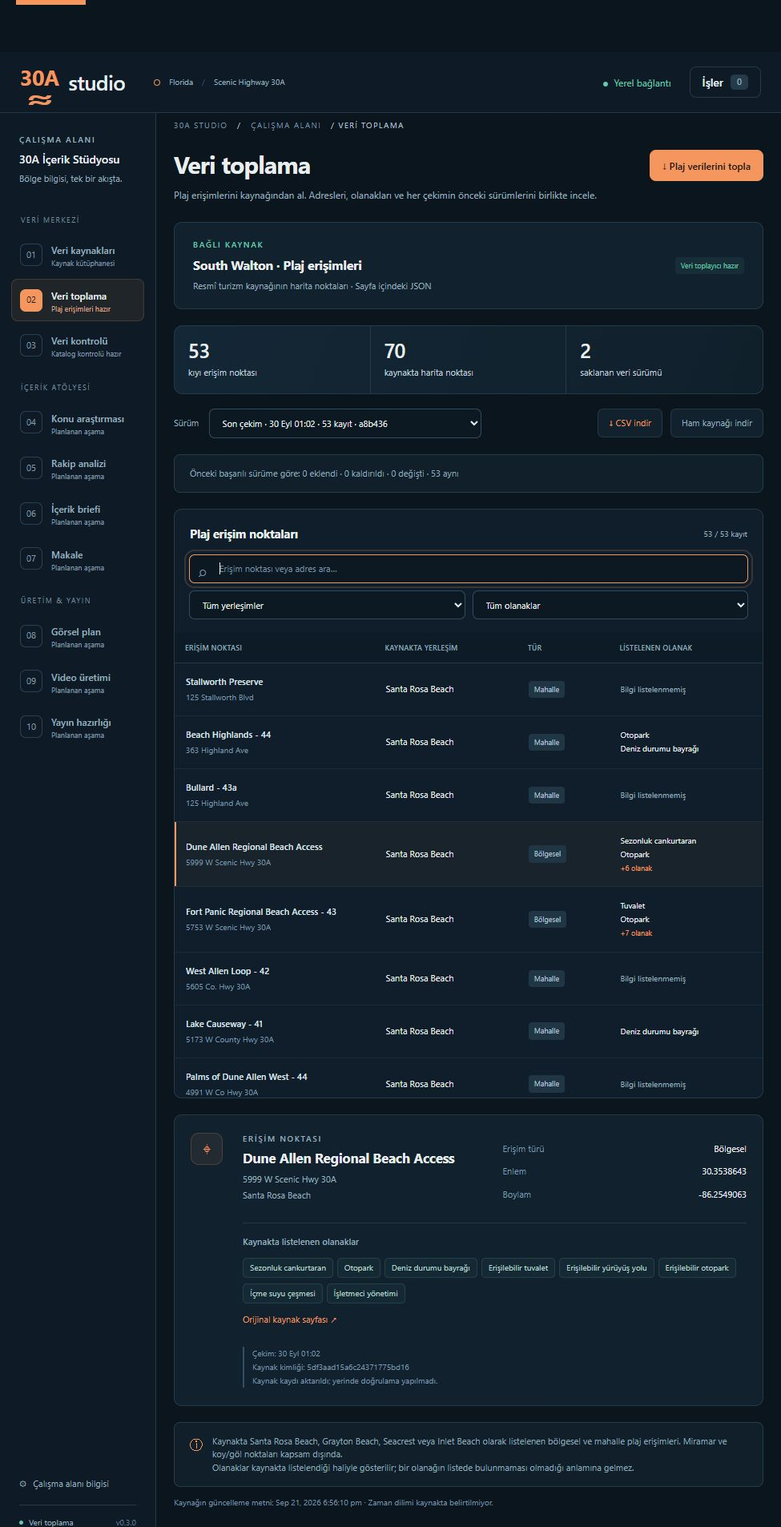
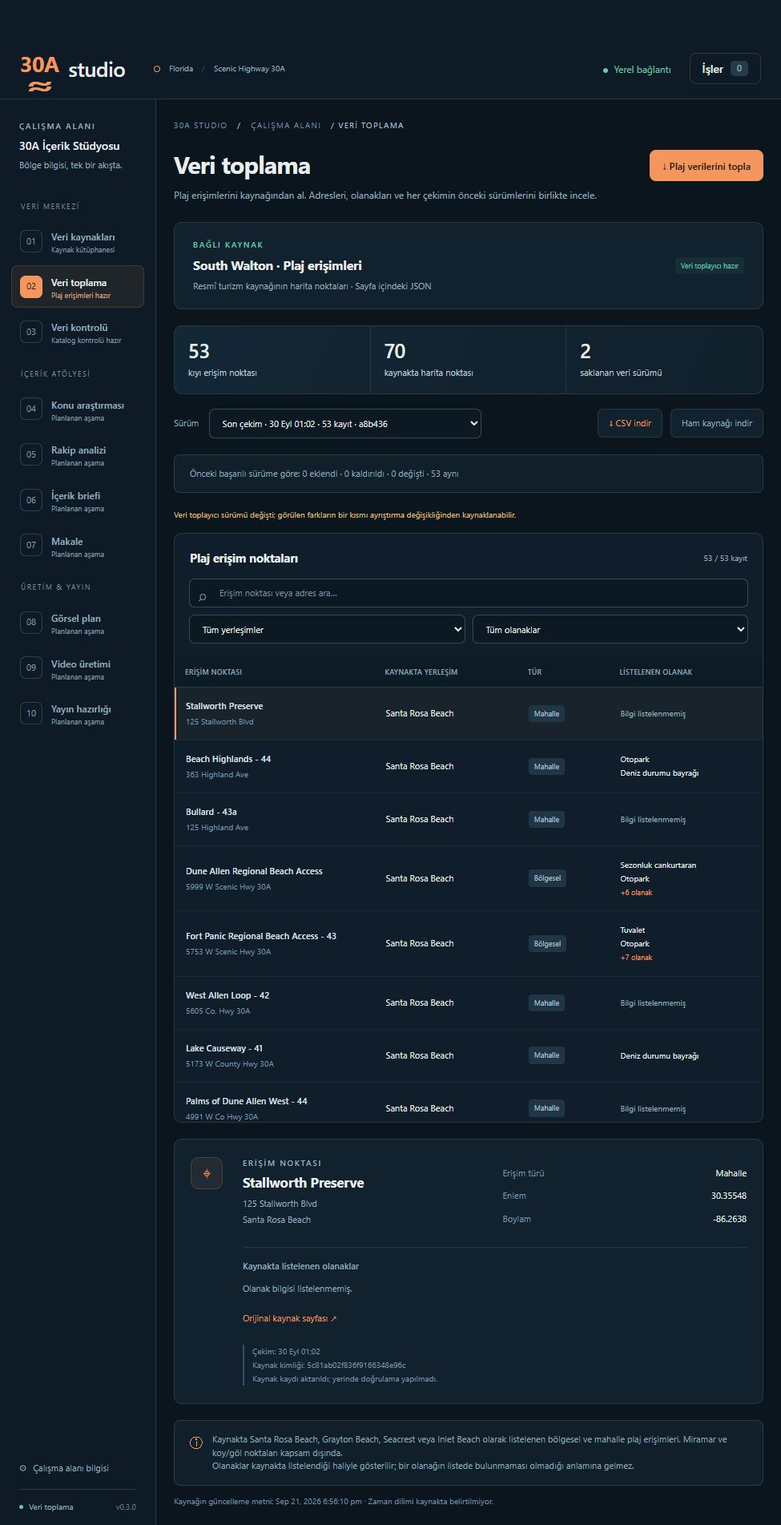
Fix generic connector UI, version diffs and safe collection diagnostics

diff --git a/studio/web/app.js b/studio/web/app.js
@@ -1,5 +1,6 @@
 import {api, esc, host, date} from "./api.js";
 import {roadmap} from "./roadmap.js";
+import {connectorState, jobResultTarget} from "./connectors.js";
 import {BeachScreen} from "./collection.js";
 
 const $ = selector => document.querySelector(selector);
@@ -85,13 +86,13 @@ function renderRows() {
   if (!sources.some(source=>source.id===state.selected)) state.selected=sources[0]?.id || null;
   $("#filter-count").textContent = `${sources.length} kaynak`;
   $("#source-rows").innerHTML = sources.length ? sources.map(source=>
-    `<tr class="${source.id===state.selected?"selected":""}"><td><button class="source-name" data-action="select" data-id="${source.id}" aria-pressed="${source.id===state.selected}">${esc(source.name)}</button><div class="source-host">${esc(host(source.url))}</div></td><td><span class="tag">${esc(source.category)}</span></td><td class="method">${source.connector?.name===state.data.beach_connector.name?"JSON · bağlı":esc(source.method)}</td><td class="method">${esc(source.cadence)}</td><td><span class="tag ${source.connector?.name===state.data.beach_connector.name && source.enabled?"green":"warm"}">${!source.enabled?"Arşivde":source.connector?.name===state.data.beach_connector.name?"Toplayıcı hazır":"Bağlantı bekliyor"}</span></td></tr>`).join("") :
+    `<tr class="${source.id===state.selected?"selected":""}"><td><button class="source-name" data-action="select" data-id="${source.id}" aria-pressed="${source.id===state.selected}">${esc(source.name)}</button><div class="source-host">${esc(host(source.url))}</div></td><td><span class="tag">${esc(source.category)}</span></td><td class="method">${esc(connectorState(source).method)}</td><td class="method">${esc(source.cadence)}</td><td><span class="tag ${source.connector != null && source.enabled?"green":"warm"}">${connectorState(source).label}</span></td></tr>`).join("") :
     `<tr class="empty-row"><td colspan="5">${state.archived?"Bu filtrelerde arşivlenmiş kaynak yok.":"Bu filtrelerde kaynak bulunamadı."}<br><button data-action="clear" class="quiet" style="margin-top:15px;font-size:11px">Filtreleri temizle</button></td></tr>`;
   const source = sources.find(source=>source.id===state.selected);
   $("#source-detail").innerHTML = source ? `<div class="detail-icon" aria-hidden="true">↗</div><span class="eyebrow">KAYNAK AYRINTISI</span><h2>${esc(source.name)}</h2><p>${esc(source.notes || "Bu kaynak için henüz açıklama eklenmedi.")}</p>
-    <dl><div><dt>Kategori</dt><dd>${esc(source.category)}</dd></div><div><dt>Bölge</dt><dd>${esc(source.region)}</dd></div><div><dt>Yöntem</dt><dd>${source.connector?.name===state.data.beach_connector.name?"JSON · bağlı":esc(source.method)}</dd></div><div><dt>Planlanan sıklık</dt><dd>${esc(source.cadence)}</dd></div><div><dt>Son düzenleme</dt><dd>${esc(date(source.updated_at))}</dd></div></dl>
+    <dl><div><dt>Kategori</dt><dd>${esc(source.category)}</dd></div><div><dt>Bölge</dt><dd>${esc(source.region)}</dd></div><div><dt>Yöntem</dt><dd>${esc(connectorState(source).method)}</dd></div>${source.connector?`<div><dt>Toplayıcı</dt><dd>${esc(source.connector.name)}</dd></div><div><dt>Toplayıcı sürümü</dt><dd>${esc(source.connector.version || "Belirtilmemiş")}</dd></div>`:""}<div><dt>Planlanan sıklık</dt><dd>${esc(source.cadence)}</dd></div><div><dt>Son düzenleme</dt><dd>${esc(date(source.updated_at))}</dd></div></dl>
     <a class="source-link" href="${esc(source.url)}" target="_blank" rel="noopener noreferrer">Kaynağın sitesini aç ↗</a>
-    <div class="detail-actions"><button data-action="edit" data-id="${source.id}">Düzenle</button><button class="quiet" data-action="archive" data-id="${source.id}">${source.enabled?"Arşivle":"Geri al"}</button></div><div class="detail-foot">${source.connector?.name===state.data.beach_connector.name?'<a href="#collect">Plaj veri toplayıcısını aç →</a><br>Bağlı yöntem: sayfa içindeki JSON.':'Bu kaynak için veri toplayıcısı henüz bağlı değil.'}</div>` :
+    <div class="detail-actions"><button data-action="edit" data-id="${source.id}">Düzenle</button><button class="quiet" data-action="archive" data-id="${source.id}">${source.enabled?"Arşivle":"Geri al"}</button></div><div class="detail-foot">${source.connector?.name===state.data.beach_connector.name?'<a href="#collect">Plaj veri toplayıcısını aç →</a>':source.connector?'Toplayıcı hazır.':'Bu kaynak için veri toplayıcısı henüz bağlı değil.'}</div>` :
     `<div class="empty"><span class="empty-icon">▤</span><h3>Kaynak ayrıntıları</h3><p>Listedeki bir kaynağı seçerek açıklamasını ve toplama planını görebilirsin.</p></div>`;
 }
 
@@ -124,10 +125,15 @@ function renderSettings() {
     <section class="info-card"><span class="eyebrow">SÜRÜM ${esc(state.data.version)}</span><h2 style="margin-top:12px">Plaj verisi toplama hazır</h2><p>Kaynak kütüphanesi, gerçek plaj verisi toplama, filtreleme, CSV dışa aktarma, önceki sürümler ve iş geçmişi kullanılabilir.</p><span class="tag warm">Sonraki aşama</span><p style="margin-top:12px">Diğer kaynaklar ve genişletilmiş veri kontrolü. Bölge ve işletme kimliği tabloları hazır; otomatik eşleştirme, mahalle sınırları ve zamanlayıcı henüz yok. İçerik, görsel ve video üretimi aşamalı olarak eklenecek.</p><a href="#collect" class="return-link">Toplanan verileri gör →</a></section></div>`;
 }
 
+function renderJobResultLink(job) {
+  const target=jobResultTarget(job,state.data.beach_connector.name);
+  return target?`<a href="${target.href}" class="return-link" data-view-report>${target.label} →</a>`:"";
+}
+
 function renderJobs() {
   const jobs = state.data.jobs;
   $("#jobs-count").textContent = jobs.filter(active).length;
-  $("#jobs-content").innerHTML = jobs.length ? jobs.map(job=>`<article class="job"><div class="job-meta"><span class="tag ${job.status==="done"?"green":"warm"}">${esc(statusLabels[job.status] || job.status)}</span><time>${esc(date(job.created_at))}</time></div><h3>${esc(job.title)}</h3>${job.source_name?`<p>Kaynak: ${esc(job.source_name)}</p>`:""}<progress max="100" value="${job.progress}" aria-label="İş ilerlemesi"></progress><p>${esc(job.message)}</p>${active(job)?`<button class="quiet" data-cancel-job="${job.id}">İptal et</button>`:""}<details><summary>İş günlüğü (${job.log.length})</summary>${job.log.map(entry=>`<div class="log-line"><time>${esc(date(entry.at))}</time>${esc(entry.text)}</div>`).join("")}</details>${job.result?(job.kind==="source_collection"?'<a href="#collect" class="return-link" data-view-report>Toplanan verileri aç →</a>':'<a href="#quality" class="return-link" data-view-report>Kontrol raporunu aç →</a>'):""}</article>`).join("") :
+  $("#jobs-content").innerHTML = jobs.length ? jobs.map(job=>`<article class="job"><div class="job-meta"><span class="tag ${job.status==="done"?"green":"warm"}">${esc(statusLabels[job.status] || job.status)}</span><time>${esc(date(job.created_at))}</time></div><h3>${esc(job.title)}</h3>${job.source_name?`<p>Kaynak: ${esc(job.source_name)}</p>`:""}<progress max="100" value="${job.progress}" aria-label="İş ilerlemesi"></progress><p>${esc(job.message)}</p>${active(job)?`<button class="quiet" data-cancel-job="${job.id}">İptal et</button>`:""}<details><summary>İş günlüğü (${job.log.length})</summary>${job.log.map(entry=>`<div class="log-line"><time>${esc(date(entry.at))}</time>${esc(entry.text)}</div>`).join("")}</details>${renderJobResultLink(job)}</article>`).join("") :
     '<div class="empty"><div class="empty-icon">⌁</div><h3>Henüz iş yok</h3><p>Kaynak ekranında “Kayıtları kontrol et” düğmesine bastığında işin durumu ve sonucu burada görünür.</p></div>';
   updateAuditButtons();
 }

diff --git a/studio/web/collection.js b/studio/web/collection.js
@@ -20,7 +20,7 @@ export class BeachScreen {
       (!source?'<div class="stage-note"><p>Plaj erişim kaynağı arşivlenmiş veya adresi değişmiş. Kaynak kütüphanesinden doğru adresli kaydı etkinleştir.</p></div>':"") +
       (run ? `<section class="overview collection-overview"><div class="metric"><div><div class="metric-number"><strong>${run.included_count}</strong><span class="metric-label">kıyı erişim noktası</span></div><small>Seçili veri sürümünde</small></div></div><div class="metric"><div><div class="metric-number"><strong>${run.total_count}</strong><span class="metric-label">kaynakta harita noktası</span></div><small>${run.excluded_count} kayıt kapsam dışında</small></div></div><div class="metric"><div><div class="metric-number"><strong>${runs.length}</strong><span class="metric-label">saklanan veri sürümü</span></div><small>Çekim: ${esc(date(run.fetched_at))}</small></div></div></section>
       <div class="collection-version"><label>Sürüm <select id="collection-version" aria-label="Veri sürümü">${runs.map((entry,index)=>`<option value="${entry.id}" ${entry.id===run.id?"selected":""}>${index===0?"Son çekim · ":""}${esc(date(entry.fetched_at))} · ${entry.included_count} kayıt · ${entry.id.slice(0,6)}</option>`).join("")}</select></label><div><a class="download-link" href="/api/collections/${run.id}/export.csv" download>↓ CSV indir</a><a class="download-link muted" href="/api/collections/${run.id}/raw" download>Ham kaynağı indir</a></div></div>
-      <div class="stage-note" id="run-diff" role="status" style="margin:0 0 20px"><p>Sürüm farkı yükleniyor…</p></div><div class="workspace-grid"><section class="library" aria-label="Toplanan plaj verileri"><div class="library-title"><h2>Plaj erişim noktaları</h2><small id="beach-count">Yükleniyor…</small></div>
+      <div class="stage-note" id="run-diff" role="status" style="margin:0 0 20px"><p>Sürüm farkı yükleniyor…</p></div><p id="diff-version-warning" class="source-stamp" style="color:var(--yellow)" hidden></p><div class="workspace-grid"><section class="library" aria-label="Toplanan plaj verileri"><div class="library-title"><h2>Plaj erişim noktaları</h2><small id="beach-count">Yükleniyor…</small></div>
       <div class="toolbar"><div class="search-wrap"><span aria-hidden="true">⌕</span><input type="search" id="beach-search" aria-label="Plaj kaydı ara" placeholder="Erişim noktası veya adres ara…" value="${esc(this.search)}"></div><select id="beach-city" aria-label="Kaynak yerleşimi filtresi"><option value="">Tüm yerleşimler</option></select><select id="beach-feature" aria-label="Olanak filtresi"><option value="">Tüm olanaklar</option></select></div>
       <div class="table-scroll"><table class="beach-table"><thead><tr><th>ERİŞİM NOKTASI</th><th>KAYNAKTA YERLEŞİM</th><th>TÜR</th><th>LİSTELENEN OLANAK</th></tr></thead><tbody id="beach-rows"><tr><td colspan="4">Kayıtlar yükleniyor…</td></tr></tbody></table></div></section><section class="detail" id="beach-detail" aria-label="Plaj kaydı ayrıntıları"></section></div>
       <div class="stage-note"><span class="note-mark">ⓘ</span><p>${esc(data.beach_connector.scope)}<br>Olanaklar kaynakta listelendiği haliyle gösterilir; bir olanağın listede bulunmaması olmadığı anlamına gelmez.</p></div><p class="source-stamp">Kaynağın güncelleme metni: ${esc(run.source_updated || "Belirtilmemiş")} · Zaman dilimi kaynakta belirtilmiyor.</p>` :
@@ -34,6 +34,9 @@ export class BeachScreen {
       main.querySelector('#run-diff').textContent=diff?.available
         ? `Önceki başarılı sürüme göre: ${diff.added} eklendi · ${diff.removed} kaldırıldı · ${diff.changed} değişti · ${diff.unchanged} aynı`
         : (diff?.reason || "Önceki başarılı sürüm yok.");
+      const warning=main.querySelector('#diff-version-warning');
+      warning.hidden=!(diff?.available && diff.connector_version_changed);
+      warning.textContent=warning.hidden?"":"Veri toplayıcı sürümü değişti; görülen farkların bir kısmı ayrıştırma değişikliğinden kaynaklanabilir.";
       const cities=[...new Set(snapshot.records.map(record=>record.city))].sort();
       const features=[...new Set(snapshot.records.flatMap(record=>record.features))].sort((a,b)=>this.label(a).localeCompare(this.label(b),'tr'));
       if(!cities.includes(this.city)) this.city="";

diff --git a/studio/web/connectors.js b/studio/web/connectors.js
@@ -1,0 +1,19 @@
+/** Registry metadata controls readiness; domain screens remain explicit. */
+export function connectorState(source) {
+  const ready=source.connector != null;
+  const method=source.method || "Belirlenecek";
+  return {
+    ready,
+    label: !source.enabled?"Arşivde":ready?"Toplayıcı hazır":"Bağlantı bekliyor",
+    method: ready?`${method === "Belirlenecek"?"Toplayıcı":method} · bağlı`:method,
+  };
+}
+
+export function jobResultTarget(job, beachConnectorName) {
+  if(!job.result) return null;
+  if(job.kind === "source_collection") {
+    return job.result.connector_name === beachConnectorName
+      ? {href:"#collect",label:"Toplanan verileri aç"} : null;
+  }
+  return job.kind === "catalog_audit"?{href:"#quality",label:"Kontrol raporunu aç"}:null;
+}

diff --git a/tests/test_corrections.py b/tests/test_corrections.py
@@ -1,0 +1,113 @@
+import hashlib
+import json
+from pathlib import Path
+
+import httpx
+import pytest
+from fastapi.testclient import TestClient
+
+from studio.app import create_app
+from studio.diagnostics import diagnostic
+from studio.sources import beaches
+from studio.sources.base import CollectionResult
+from studio.sources.registry import ConnectorRegistry, DEFAULT_REGISTRY
+from tests.legacy import make_legacy_db
+from tests.test_beaches import HEADERS, page, point, fake_collector
+from tests.test_foundation import TestConnector, collect
+from tests.test_studio import payload
+
+
+def test_generic_metadata_and_disk_hash(tmp_path):
+    with TestClient(create_app(tmp_path, ConnectorRegistry([*DEFAULT_REGISTRY.connectors, TestConnector()])), headers=HEADERS) as client:
+        source = client.post('/api/sources', json=payload()).json()
+        for sources in (client.get('/api/sources').json(), client.get('/api/bootstrap').json()['sources']):
+            connected = next(row for row in sources if row['id'] == source['id'])
+            assert connected['connector'] == {'name': 'test-connector', 'version': '1'}
+            assert any(row['connector'] is None for row in sources)
+        job, run = collect(client, source['id'])
+        assert job['result']['connector_name'] == 'test-connector'
+        raw = (tmp_path / run['raw_path']).read_bytes()
+        assert raw == b'Synthetic test response'
+        assert run['raw_sha256'] == hashlib.sha256(raw).hexdigest()
+        assert 'raw_sha256' not in CollectionResult.__dataclass_fields__
+
+
+def test_migrated_run_compares_across_connector_versions(tmp_path, monkeypatch):
+    make_legacy_db(tmp_path / 'studio.sqlite3')
+    monkeypatch.setattr(beaches, 'collect', fake_collector(page(point())))
+    with TestClient(create_app(tmp_path), headers=HEADERS) as client:
+        db = client.app.state.db
+        source = next(row for row in db.sources() if row['id'] == 'source-a')
+        db.save_source({**source, 'enabled': True}, source['id'], source['version'])
+        job, run = collect(client, source['id'])
+        diff = client.get(f"/api/source-runs/{run['id']}/diff").json()
+        assert diff['available'] and diff['previous_run_id'] == 'old-success'
+        assert diff['previous_connector_version'] == 'south-walton-beaches/1'
+        assert diff['connector_version'] == beaches.PARSER_VERSION
+        assert diff['connector_version_changed'] is True
+        assert client.get(f"/api/collections/{run['id']}").json()['diff'] == diff
+
+
+@pytest.mark.parametrize('origin,destination', [
+    ('www.visitsouthwalton.com', 'visitsouthwalton.com'),
+    ('visitsouthwalton.com', 'www.visitsouthwalton.com'),
+])
+def test_allowlisted_redirect_both_directions(tmp_path, monkeypatch, origin, destination):
+    monkeypatch.setattr(beaches, 'SOURCE_URL', f'https://{origin}/map')
+    seen = []
+    def respond(request):
+        seen.append(str(request.url))
+        if len(seen) == 1:
+            return httpx.Response(301, headers={'location': f'https://{destination}:443/new-map'})
+        return httpx.Response(200, headers={'content-type': 'text/html'}, content=page(point()))
+    with httpx.Client(transport=httpx.MockTransport(respond)) as client:
+        result = beaches.collect(tmp_path / 'raw.html', lambda *args: None, lambda: False, client=client)
+    assert len(result.records) == 1
+    assert seen == [f'https://{origin}/map', f'https://{destination}/new-map']
+
+
+@pytest.mark.parametrize('message,secrets', [
+    ('password=mysecret token=abc123', ['mysecret', 'abc123']),
+    ('Authorization: Bearer bearer-secret api_key=key-secret', ['bearer-secret', 'key-secret']),
+    ('authorization=Bearer bearer-secret', ['bearer-secret']),
+    ('{"password": "space secret", "api_key": "key secret"}', ['space secret', 'key secret']),
+    ("token='quoted secret' API-KEY: key-secret", ['quoted secret', 'key-secret']),
+    ('request https://user:pass123@host.example/path failed', ['user:', 'pass123']),
+    ('keys ghp_test_secret sk-test-secret github_pat_test_secret', ['ghp_test_secret', 'sk-test-secret', 'github_pat_test_secret']),
+    ('x' * 490 + ' token=' + 'a' * 100, ['a' * 3]),
+])
+def test_diagnostic_redacts_before_truncating(message, secrets):
+    info = diagnostic(RuntimeError(message))
+    assert len(info['technical_message']) <= 500
+    for secret in secrets:
+        assert secret not in json.dumps(info)
+    assert '[RE' in info['technical_message']
+
+
+def test_diagnostic_preserves_plain_message_and_only_trace_locations():
+    private_local = 'must-not-leak'
+    try:
+        raise RuntimeError('database is locked')
+    except RuntimeError as exc:
+        info = diagnostic(exc)
+    assert info['technical_message'] == 'database is locked'
+    assert info['exception_type'] == 'RuntimeError'
+    assert info['traceback']
+    assert all(set(frame) == {'file', 'line', 'function'} for frame in info['traceback'])
+    assert all(frame['file'] == Path(frame['file']).name for frame in info['traceback'])
+    assert private_local not in json.dumps(info)
+
+
+def test_safe_diagnostic_is_internal_db_only(tmp_path):
+    class LockedConnector(TestConnector):
+        def store_records(self, con, run_id, records):
+            raise RuntimeError('database is locked')
+    with TestClient(create_app(tmp_path, ConnectorRegistry([LockedConnector()])), headers=HEADERS) as client:
+        source = client.post('/api/sources', json=payload()).json()
+        job, run = collect(client, source['id'])
+        with client.app.state.db.connect() as con:
+            info = json.loads(con.execute('SELECT diagnostic FROM jobs WHERE id=?', (job['id'],)).fetchone()[0])
+        assert info['technical_message'] == 'database is locked'
+        for endpoint in ('/api/jobs', '/api/bootstrap', f"/api/source-runs/{run['id']}"):
+            text = client.get(endpoint).text
+            assert 'database is locked' not in text and 'technical_message' not in text

diff --git a/tests/test_foundation.py b/tests/test_foundation.py
@@ -153,7 +153,9 @@ def test_diff_is_scoped_immutable_and_ignores_feature_order(tmp_path, monkeypatc
         monkeypatch.setattr(beaches, "collect", fake_collector(updated))
         second, _ = collect(client)
         result = client.get(f"/api/source-runs/{second['id']}/diff").json()
-        assert result == {"available": True, "previous_run_id": first["id"], "added": 1, "removed": 1, "changed": 1, "unchanged": 1}
+        assert result == {"available": True, "previous_run_id": first["id"], "added": 1, "removed": 1, "changed": 1, "unchanged": 1,
+                          "previous_connector_version": beaches.PARSER_VERSION,
+                          "connector_version": beaches.PARSER_VERSION, "connector_version_changed": False}
         third, _ = collect(client)
         assert client.get(f"/api/source-runs/{third['id']}/diff").json()["unchanged"] == 3
         assert client.get(f"/api/source-runs/{second['id']}/diff").json() == result
@@ -174,7 +176,7 @@ class TestConnector:
     def collect(self, source, raw_path, progress, canceled):
         raw_path.parent.mkdir(parents=True, exist_ok=True)
         raw_path.write_text("Synthetic test response", encoding="utf-8")
-        return CollectionResult([{"external_id": "test-id", "value": 12}], 1, 0, None, "unused")
+        return CollectionResult([{"external_id": "test-id", "value": 12}], 1, 0, None)
 
     def store_records(self, con, run_id, records):
         con.execute("CREATE TABLE IF NOT EXISTS test_domain(run_id TEXT,external_id TEXT,value INTEGER)")
@@ -256,7 +258,7 @@ def test_redirect_same_host_accepted(tmp_path):
     assert len(result.records) == 1 and seen == [beaches.SOURCE_URL, "https://www.visitsouthwalton.com/new-beach-map/"]
 
 
-@pytest.mark.parametrize("destination", ["https://other.example/map", "https://visitsouthwalton.com/map",
+@pytest.mark.parametrize("destination", ["https://other.example/map", "https://other.visitsouthwalton.com/map",
     "//www.visitsouthwalton.com.evil.example/map", "http://www.visitsouthwalton.com/map",
     "https://user:password@www.visitsouthwalton.com/map", "https://www.visitsouthwalton.com:8443/map"])
 def test_redirect_cross_host_or_unsafe_rejected_without_request(tmp_path, destination):

diff --git a/studio/sources/beaches.py b/studio/sources/beaches.py
@@ -1,5 +1,4 @@
 """Visit South Walton harita noktaları. Sayfanın JavaScript'i çalıştırılmaz."""
-import hashlib
 import json
 import math
 import re
@@ -12,6 +11,7 @@ import httpx
 from .base import CollectionResult, SourceError, CollectionCanceled
 
 SOURCE_URL = "https://www.visitsouthwalton.com/beach-bay-access-locations/"
+ALLOWED_HOSTS = frozenset({"visitsouthwalton.com", "www.visitsouthwalton.com"})
 PARSER_VERSION = "south-walton-beaches/2"
 MAX_BYTES = 5_000_000
 COASTAL_CITIES = frozenset({"Santa Rosa Beach", "Grayton Beach", "Seacrest", "Inlet Beach"})
@@ -94,8 +94,7 @@ def parse_page(content: bytes) -> BeachBatch:
         raise SourceError("Seçilen 30A kıyı kapsamına uyan kayıt bulunamadı. Önceki kayıtlar korundu.")
     updated_match = re.search(r"Latest map update:\s*(?:<[^>]+>\s*)*([^<\r\n]+)", text)
     source_updated = unescape(updated_match.group(1)).strip() if updated_match else None
-    return BeachBatch(records, len(raw_records), len(raw_records)-len(records), source_updated,
-                      hashlib.sha256(content).hexdigest())
+    return BeachBatch(records, len(raw_records), len(raw_records)-len(records), source_updated)
 
 
 def collect(raw_path: Path, progress, canceled, *, client=None) -> BeachBatch:
@@ -122,7 +121,7 @@ def collect(raw_path: Path, progress, canceled, *, client=None) -> BeachBatch:
                                 target_port = parts.port
                             except ValueError as exc:
                                 raise SourceError("Kaynak geçersiz bir yönlendirme adresi döndürdü.") from exc
-                            if (parts.hostname != urlsplit(SOURCE_URL).hostname or parts.scheme != "https"
+                            if (parts.hostname not in ALLOWED_HOSTS or parts.scheme != "https"
                                     or parts.username is not None or parts.password is not None or target_port not in (None, 443)):
                                 raise SourceError("Kaynak başka bir alan adına veya güvenli olmayan adrese yönlendirdi. Yönlendirme izlenmedi.")
                             if not response.headers.get("location") or redirect_count == 3:

diff --git a/studio/diagnostics.py b/studio/diagnostics.py
@@ -1,14 +1,26 @@
-"""Hata nesnesinin mesajını/yerel değişkenlerini kaydetmeden teşhis bilgisi."""
+"""Internal diagnostics: sanitized message and traceback locations, without locals."""
+import re
 import traceback
 from pathlib import Path
 
 
+def safe_message(message):
+    # Redact before truncation, so a secret crossing the limit is not partially saved.
+    message = re.sub(r"(?i)(\b[a-z][a-z0-9+.-]*://)[^\s/]+@", r"\1[REDACTED]@", message)
+    message = re.sub(r"(?i)\bBearer\s+[^\s\"',;<>]+", "Bearer [REDACTED]", message)
+    message = re.sub(
+        r"(?i)([\"']?\b(?:password|passwd|token|access_token|refresh_token|api[_-]?key|authorization)\b[\"']?\s*[:=]\s*)"
+        r"(?:\"[^\"]*\"|'[^']*'|[^\s,;&<>]+)",
+        r"\1[REDACTED]", message)
+    message = re.sub(r"\b(?:ghp_|github_pat_|sk-)[a-zA-Z0-9_-]+", "[REDACTED]", message)
+    return message[:500]
+
+
 def diagnostic(exc):
     frames = traceback.extract_tb(exc.__traceback__)
-    # Exception mesajları, kaynak satırı, tam dosya yolları ve locals sır içerebilir.
     return {
         "exception_type": type(exc).__name__,
-        "technical_message": "Beklenmeyen hata; konumlar için traceback alanına bakın.",
+        "technical_message": safe_message(str(exc)),
         "traceback": [{"file": Path(frame.filename).name, "line": frame.lineno,
                        "function": frame.name} for frame in frames[-20:]],
     }

diff --git a/studio/database.py b/studio/database.py
@@ -235,7 +235,7 @@ class Database:
                 return None
             if run["status"] != "done":
                 return {"available": False, "reason": "Başarılı bir sürüm seçin."}
-            previous = con.execute("""SELECT id FROM source_runs WHERE source_id=? AND connector_name=?
+            previous = con.execute("""SELECT id,connector_version FROM source_runs WHERE source_id=? AND connector_name=?
                 AND status='done' AND rowid<? ORDER BY rowid DESC LIMIT 1""",
                 (run["source_id"], run["connector_name"], run["sequence"])).fetchone()
             if not previous:
@@ -250,6 +250,9 @@ class Database:
             shared = before.keys() & after.keys()
             changed = sum(before[key] != after[key] for key in shared)
             return {"available": True, "previous_run_id": previous["id"],
+                    "previous_connector_version": previous["connector_version"],
+                    "connector_version": run["connector_version"],
+                    "connector_version_changed": previous["connector_version"] != run["connector_version"],
                     "added": len(after.keys() - before.keys()), "removed": len(before.keys() - after.keys()),
                     "changed": changed, "unchanged": len(shared) - changed}
 

diff --git a/tests/test_beaches.py b/tests/test_beaches.py
@@ -1,5 +1,4 @@
 import csv
-import hashlib
 import io
 import json
 import threading
@@ -60,7 +59,7 @@ def test_scope_missing_amenities_trailing_comma_and_provenance():
     assert batch.records[0]["features"] == []
     assert batch.records[0]["city"] == "Santa Rosa Beach"
     assert batch.records[1]["features"] == ["Parking", "Restrooms"]
-    assert batch.raw_sha256 == hashlib.sha256(content).hexdigest()
+    assert not hasattr(batch, "raw_sha256")
     assert batch.source_updated == "Sep 21, 2026 6:56:10 pm"
 
 

diff --git a/studio/sources/base.py b/studio/sources/base.py
@@ -17,7 +17,6 @@ class CollectionResult:
     total_count: int
     excluded_count: int
     source_updated: str | None
-    raw_sha256: str
     metadata: dict = field(default_factory=dict)
 
 

diff --git a/CALISMA_MANTIGI.md b/CALISMA_MANTIGI.md
@@ -42,7 +42,7 @@ Düzenleme `expected_version` taşır. Başka pencere kaydı değiştirmişse es
 
 ## Connector sözleşmesi
 
-`studio/sources/base.py`, sonuç sözleşmesini ve küçük bir Python Protocol tanımlar. CollectionResult; normalize edilmiş kayıtları, toplam/kapsam dışı sayısını, kaynak güncelleme metnini, ham dosya özetini ve ek metadata'yı taşır.
+`studio/sources/base.py`, sonuç sözleşmesini ve küçük bir Python Protocol tanımlar. CollectionResult; normalize edilmiş kayıtları, toplam/kapsam dışı sayısını, kaynak güncelleme metnini ve ek metadata'yı taşır.
 
 | Sorumluluk | Metot / alan |
 |---|---|
@@ -61,7 +61,7 @@ Yeni toplama türü `source_collection`'dır. Kaynak etkin ve destekleniyor olma
 
 Her kabul edilmiş çekim queued/running/done/failed/canceled/interrupted durumuyla source_runs içinde izlenir. Alanları: id, source_id, job_id, status, started_at, fetched_at, finished_at, source_url, connector_name, connector_version, raw_path, raw_sha256, source_updated, record_count, excluded_count, error_message, metadata JSON.
 
-Başlangıç metadata'sı kaynak adı ve sürüm numarasını içerir. started_at iş çalışınca yazılır. İndirme oluşmadıysa raw/fetched_at alanları NULL'dır. Ham dosya oluşursa SHA-256 dosyadan hesaplanır; fetched_at dosyanın yazım zamanıdır. Başarısız ayrıştırmada da ham dosya bilgisi korunur. Doğrulanmamış kayıtlar yayımlanmaz; başarısız çekimin record_count değeri sıfırdır.
+Başlangıç metadata'sı kaynak adı ve sürüm numarasını içerir. started_at iş çalışınca yazılır. İndirme oluşmadıysa raw/fetched_at alanları NULL'dır. Ham dosya oluşursa SHA-256 yalnızca Database.record_raw_artifact() tarafından diskteki gerçek baytlardan hesaplanır; CollectionResult hash taşımaz; fetched_at dosyanın yazım zamanıdır. Başarısız ayrıştırmada da ham dosya bilgisi korunur. Doğrulanmamış kayıtlar yayımlanmaz; başarısız çekimin record_count değeri sıfırdır.
 
 Tek çalışanlı ThreadPoolExecutor kullanılır. Aynı kaynakta ikinci aktif toplama engellenir, farklı kaynaklar sıraya girebilir. Yürütücü kuyruğu bellekte, iş ve run bilgileri SQLite'tadır. Yeniden açılışta etkin kalan işler/run'lar interrupted yapılır; otomatik yeniden çalıştırılmaz.
 
@@ -71,7 +71,7 @@ Tek çalışanlı ThreadPoolExecutor kullanılır. Aynı kaynakta ikinci aktif t
 
 Kaynak: [Visit South Walton plaj erişimleri](https://www.visitsouthwalton.com/beach-bay-access-locations/). HTTPX ile HTML alınır; initMarkers veri dizisinin JSON nesneleri ayrıştırılır. Kaynak JavaScript çalıştırılmaz.
 
-TLS kontrolü açıktır. En fazla üç yönlendirme izlenir; yalnızca başlangıç adresiyle aynı hostname, HTTPS ve varsayılan/443 port kabul edilir. `www` kaldıran veya başka alt alana giden adresler de farklı host sayılır. Kullanıcı bilgisi içeren adresler izlenmez. Ağ/5xx hatasında bir kez yeniden deneme vardır; 429 ve kalıcı hatalar kullanıcıya bildirilir. Yanıt sınırı 5 MB, bağlantı zaman aşımı 10 saniye, diğer HTTP işlemleri için 20 saniyedir.
+TLS kontrolü açıktır. En fazla üç yönlendirme izlenir; yalnızca açık izin listesindeki `visitsouthwalton.com` ve `www.visitsouthwalton.com`, HTTPS ve varsayılan/443 port kabul edilir. www/apex geçişleri iki yönde desteklenir; diğer alt alanlar ve yanıltıcı alan adı son ekleri reddedilir. Kullanıcı bilgisi içeren adresler izlenmez. Ağ/5xx hatasında bir kez yeniden deneme vardır; 429 ve kalıcı hatalar kullanıcıya bildirilir. Yanıt sınırı 5 MB, bağlantı zaman aşımı 10 saniye, diğer HTTP işlemleri için 20 saniyedir.
 
 Kimlik, ad, adres, city, tür, koordinatlar ve olanak listesi doğrulanır. Bozuk/boş veri, yinelenen kimlik veya beklenmeyen tür bütün çekimi başarısız yapar. Kayıtlar beach_records içinde kalır ve run_id artık source_runs'a bağlıdır.
 
@@ -89,7 +89,7 @@ Tablolar boş oluşturulur. Entity düzenleme arayüzü/API'si, otomatik eşleş
 
 ## Sürüm farkı
 
-Seçili başarılı run; aynı source_id ve connector_name için önceki başarılı run ile karşılaştırılır. Başarısız/iptal edilmiş çekimler atlanır. Önceki sürüm yoksa bu açıkça yazılır. Sıralama run kayıt sırasıdır; tek çalışan ve kaynak başına tek aktif iş bu düzeni korur.
+Seçili başarılı run; aynı source_id ve connector_name için önceki başarılı run ile karşılaştırılır. Başarısız/iptal edilmiş çekimler atlanır. Önceki sürüm yoksa bu açıkça yazılır. Diff çıktısında previous_connector_version, connector_version ve connector_version_changed bulunur. Toplayıcı sürümleri farklıysa karşılaştırma korunur; ekranda ayrıştırma değişikliğinin farkları etkileyebileceği uyarısı gösterilir. Bu kural migration sonrası eski v0.2 ile ilk yeni çekim için de geçerlidir. Sıralama run kayıt sırasıdır; tek çalışan ve kaynak başına tek aktif iş bu düzeni korur.
 
 External_id kümelerinden added/removed; ortak kimliklerden changed/unchanged hesaplanır. Plajlarda ad, adres, city/source_region_text, koordinatlar, erişim türü ve olanaklar karşılaştırılır. Olanak sırası/tekrarı değişiklik sayılmaz. İş kimliği ve zaman karşılaştırılmaz. Rapor okunurken hesaplanır ve eski kayıtları değiştirmez.
 
@@ -101,7 +101,7 @@ collections fiziksel tablosu, başarılı plaj sürümlerini sunan salt okunur u
 
 ## Teşhis ve canlı ilerleme
 
-Beklenmeyen hata türü ve traceback konumları jobs.diagnostic JSON alanında tutulur. Exception mesajı, kaynak satırı, tam yerel yol ve locals kaydedilmez; bu alanlardaki parola/token günlüğe taşınmaz. Kullanıcıya anlaşılır sabit mesaj gösterilir. Diagnostic normal job API/SSE yanıtına dahil edilmez. Yerel veritabanından geliştirici tarafından incelenebilir.
+Beklenmeyen hata türü ve traceback konumları jobs.diagnostic JSON alanında tutulur. Teknik mesaj str(exc) üzerinden alınır; password/token/api_key, Authorization/Bearer, ghp_/sk- ve URL kimlik bilgileri gibi yaygın kalıplar [REDACTED] ile gizlendikten sonra en fazla 500 karakter saklanır. Traceback yalnızca dosya adı, satır ve fonksiyon içerir; kaynak satırı ve locals saklanmaz. Kullanıcıya anlaşılır sabit mesaj gösterilir. Diagnostic normal job API/SSE yanıtına dahil edilmez. Yerel veritabanından geliştirici tarafından incelenebilir.
 
 Ön yüz `/api/events` SSE bağlantısıyla iş listesini alır. Sunucu saniyede bir değişikliği kontrol eder. İşler paneli kaynak adını, ilerlemeyi ve günlüğü gösterir; başarılı plaj çekimi sürüm listesini yeniler.
 
@@ -125,3 +125,5 @@ Kurulum: `python -m pip install -e ".[test]"`. Test: `python -m pytest -q`. GitH
 Yedek için uygulama kapalıyken data klasörünün tamamı kopyalanır. GitHub'a kod, testler ve belgeler gönderilir; data, yedekler, ham çekimler, .venv, .env ve önbellekler gönderilmez. Yeni connector'lar ve veri kalite kontrolleri sonraki adımlardır. İçerik onayları, verisi değişen içeriği eskimiş işaretleme, AI ve medya akışı henüz uygulanmadı.
 
 İlgili belgeler: [mimari](docs/MIMARI.md), [aşamalar](docs/ASAMALAR.md), [v0.2 plaj kaynağı çalışması](docs/M2-VERI-TOPLAMA.md).
+
+Kaynak kütüphanesindeki hazır durumu ve bağlı yöntem, beach adına değil genel `source.connector` bilgisine dayanır. Ayrıntıda toplayıcı adı ve sürümü görünür. İşler panelindeki plaj ekranı bağlantısı yalnızca sonuçta plaj connector adını taşıyan işlere verilir; diğer genel toplama işleri bu ekrana yönlendirilmez.

diff --git a/docs/MIMARI.md b/docs/MIMARI.md
@@ -72,9 +72,9 @@ Yeni connector eklenirken kaynak desteği, okuma/doğrulama, domain saklama/okum
 
 Fark raporu aynı source ve connector'ın önceki başarılı run'ını seçer. External_id esas alınır; başarısız ve iptal edilmiş çekimler atlanır. Olanakların sırası fark sayılmaz; eski satırlar değişmez. Ayrıntılı alan sözleşmesi CALISMA_MANTIGI.md içindedir.
 
-HTTP bağlayıcısı en fazla üç yönlendirmeyi yalnızca aynı hostname, HTTPS ve varsayılan/443 port koşuluyla takip eder. Farklı host, alt alan veya güvenli olmayan adres için istek yapılmaz. Ham HTML çalıştırılmaz. Boyut/zaman sınırları, sınırlı yeniden deneme ve iptal korunmuştur.
+HTTP bağlayıcısı en fazla üç yönlendirmeyi yalnızca açık izin listesindeki visitsouthwalton.com veya www.visitsouthwalton.com, HTTPS ve varsayılan/443 port koşuluyla takip eder. İzin listesi dışındaki host, alt alan veya güvenli olmayan adres için istek yapılmaz. Ham HTML çalıştırılmaz. Boyut/zaman sınırları, sınırlı yeniden deneme ve iptal korunmuştur.
 
-Beklenmeyen hata türü ve dosya adı/satır/fonksiyon konumları jobs.diagnostic içinde saklanır. Ham exception mesajı, tam yerel yol, kaynak satırı ve locals saklanmaz. Diagnostic normal API/SSE yanıtına katılmaz. Uygulama localhost içindir; uzaktan erişim için hesap/yetki sistemi eklenmemiştir.
+Beklenmeyen hata türü ve dosya adı/satır/fonksiyon konumları jobs.diagnostic içinde saklanır. Exception mesajındaki yaygın sır kalıpları gizlenir ve technical_message en fazla 500 karakter saklanır. Traceback yalnızca dosya adı/satır/fonksiyon içerir; kaynak satırı ve locals saklanmaz. Diagnostic normal API/SSE yanıtına katılmaz. Uygulama localhost içindir; uzaktan erişim için hesap/yetki sistemi eklenmemiştir.
 
 ## Kapsam sınırı ve doğrulama
 
@@ -85,3 +85,5 @@ Testler migration, rollback, kalıcılık, genel connector/job, başarısız run
 Kullanıcı veritabanının kopyasında 7 kaynak, 1 kaynak geçmişi, 1 eski başarılı run ve 53 plaj satırının korunduğu doğrulandı. Yeni sürümle yapılan canlı çekim yine 53 kayıt verdi; eski sürümle farkı 0 eklenen, 0 kaldırılan, 0 değişen ve 53 aynı kayıttı. Bu sayılar yalnızca o doğrulama anına aittir.
 
 Tam çalışma akışı: [CALISMA_MANTIGI.md](../CALISMA_MANTIGI.md). Geliştirme planı: [ASAMALAR.md](ASAMALAR.md).
+
+Kaynak UI durumu genel connector metadata bilgisini kullanır; özel plaj bağlantıları yalnızca plaj connector sonuçlarına aittir. Diff, connector sürümleri farklı olsa da çalışır ve sürüm değişimini üç ek alanla bildirir. Ham SHA-256 yalnızca Database.record_raw_artifact() tarafından diskteki dosyadan hesaplanır; CollectionResult içinde ikinci hash alanı yoktur.
